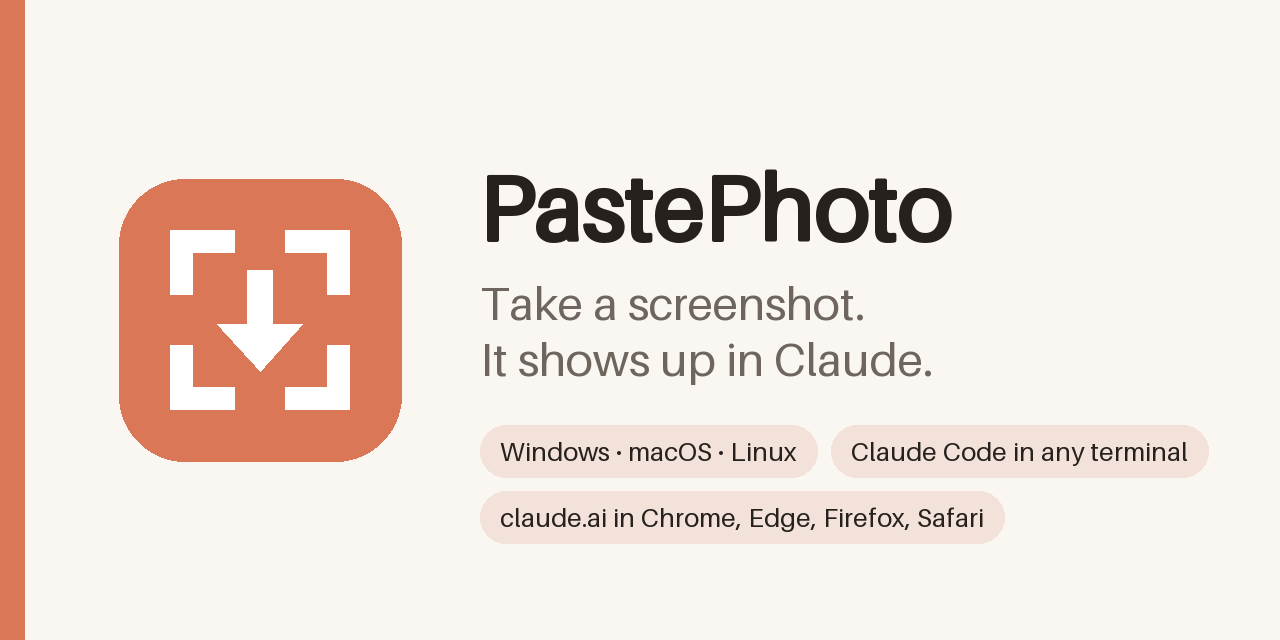
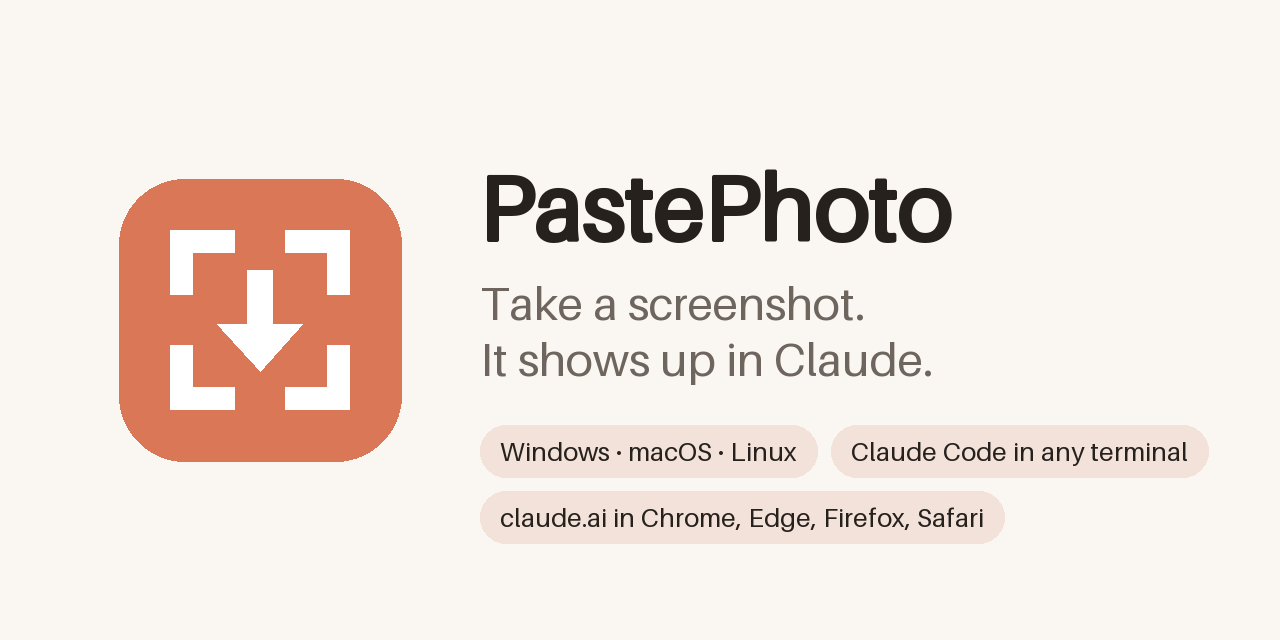
docs: imagen social sin la franja naranja lateral

Changed region(s): [[0.0, 0.0, 0.0312, 1.0]]

diff --git a/packaging/make_brand.py b/packaging/make_brand.py
@@ -18,7 +18,7 @@ from pathlib import Path
 from PIL import Image, ImageDraw, ImageFont
 
 sys.path.insert(0, str(Path(__file__).resolve().parent))
-from make_icon import BACKGROUND, draw  # noqa: E402
+from make_icon import draw  # noqa: E402
 
 OUT = Path(__file__).resolve().parent.parent / "docs" / "assets"
 WIDTH, HEIGHT = 1280, 640
@@ -44,8 +44,6 @@ def logo(size: int = 512) -> Image.Image:
 def social_preview() -> Image.Image:
     img = Image.new("RGBA", (WIDTH, HEIGHT), PAPER)
     d = ImageDraw.Draw(img)
-    # Franja del color del icono a la izquierda y el icono encima.
-    d.rectangle((0, 0, 24, HEIGHT), fill=BACKGROUND)
     icon = draw(300)
     img.alpha_composite(icon, (110, (HEIGHT - 300) // 2))
 

diff --git a/CHANGELOG.md b/CHANGELOG.md
@@ -50,6 +50,8 @@ y el proyecto se adhiere a [Semantic Versioning](https://semver.org/lang/es/).
   Se vuelve a grabar con `packaging/demo/demo.py`.
 
 ### Changed
+- Imagen social (`docs/assets/social-preview.png`) sin la franja naranja del borde
+  izquierdo (`packaging/make_brand.py`).
 - El producto se llama **PastePhoto** en todo lo visible (README, bandeja, mensajes,
   instalador y accesos directos, lanzador de Linux, extensiones, winget, imágenes de marca).
   `paste-photo` sigue siendo el id técnico: comando, ejecutables, paquetes, rutas de
